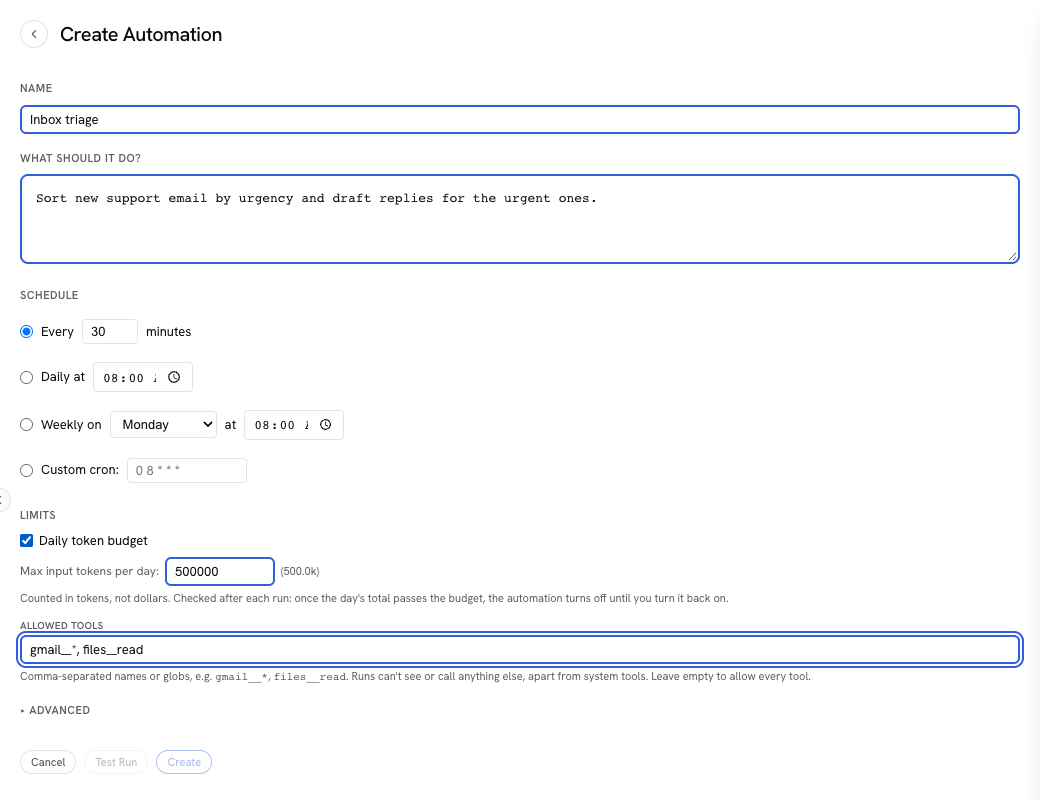
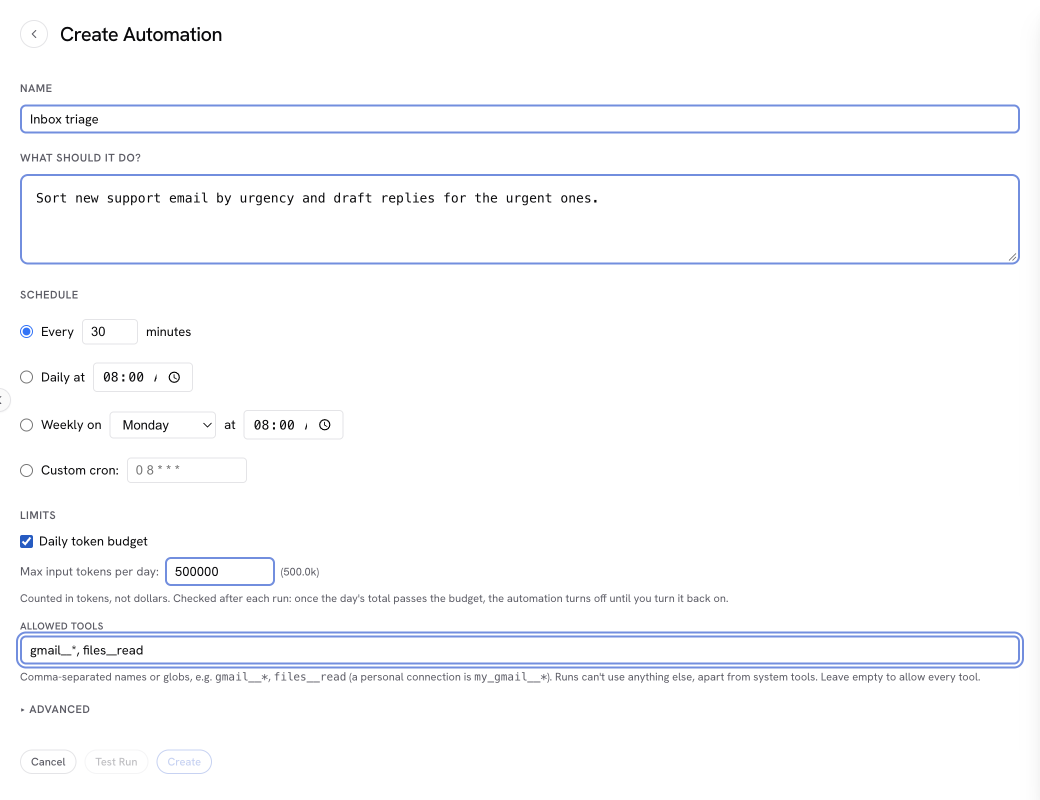
Retake the create-form screenshot with the current allowed-tools hint; restore the space before its parenthetical
JSX drops a line break between an element and following text, so the hint rendered 'files__read(a personal connection'.

diff --git a/src/platform/automations/ui/src/components/CreateAutomationForm.tsx b/src/platform/automations/ui/src/components/CreateAutomationForm.tsx
@@ -321,8 +321,8 @@ export function CreateAutomationForm({
             placeholder="All tools"
           />
           <div style={hintStyle}>
-            Comma-separated names or globs, e.g. <code>gmail__*</code>, <code>files__read</code>
-            (a personal connection is <code>my_gmail__*</code>). Runs can't use anything else, apart
+            Comma-separated names or globs, e.g. <code>gmail__*</code>, <code>files__read</code> (a
+            personal connection is <code>my_gmail__*</code>). Runs can't use anything else, apart
             from system tools. Leave empty to allow every tool.
           </div>
         </div>
